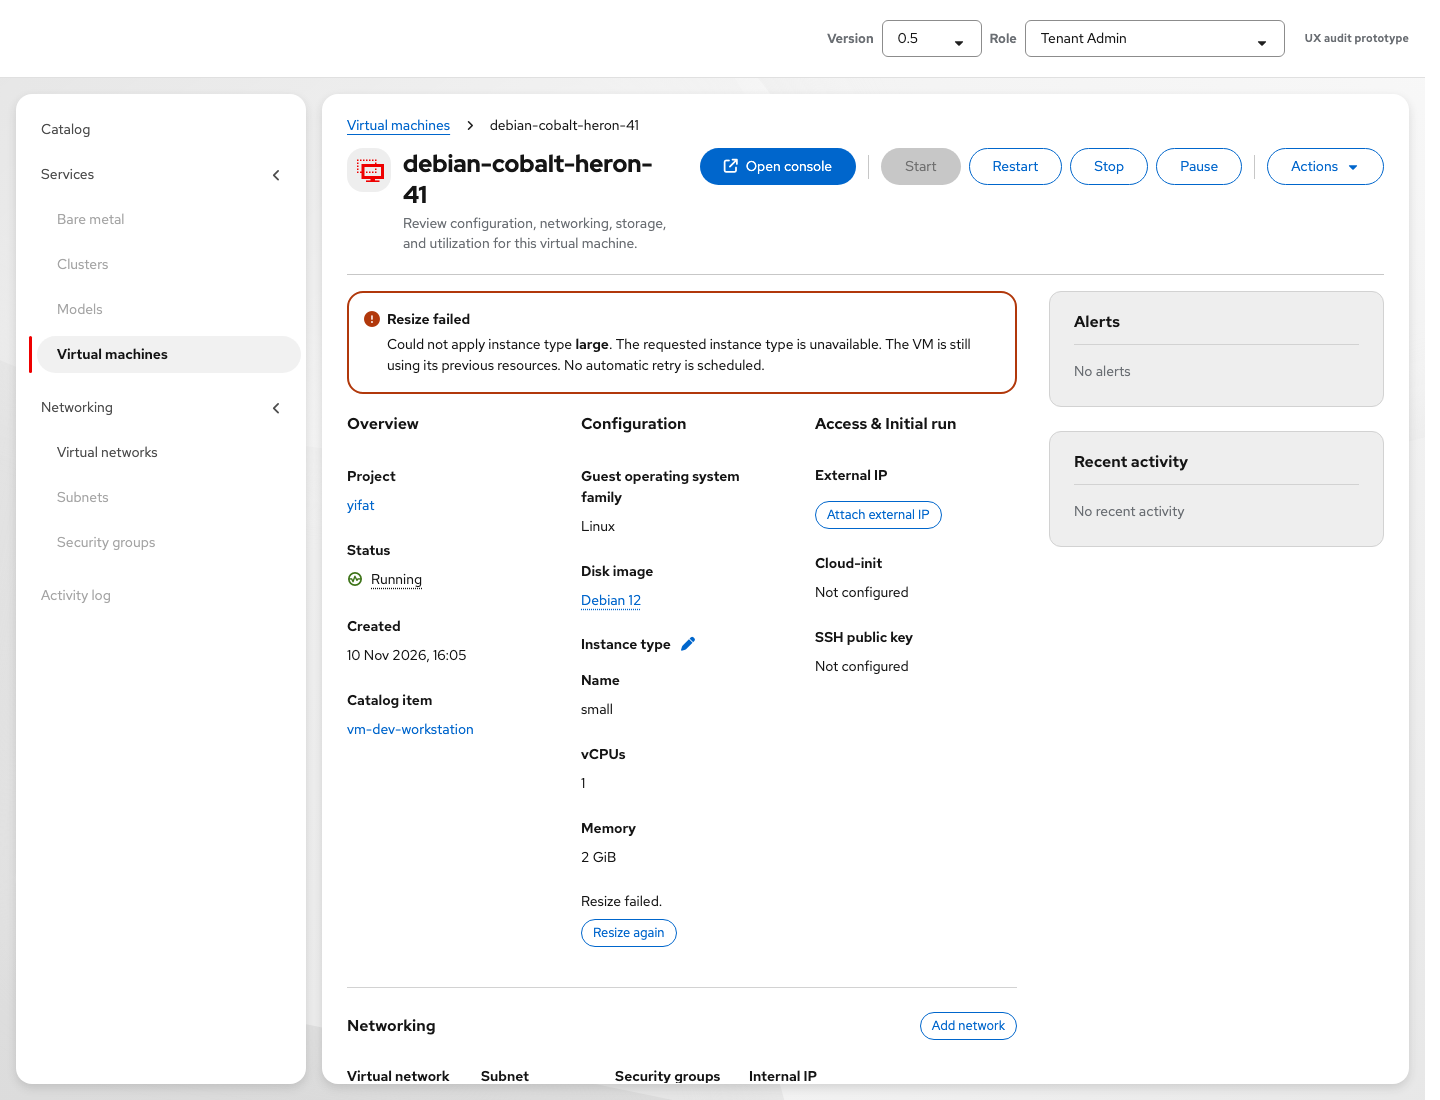
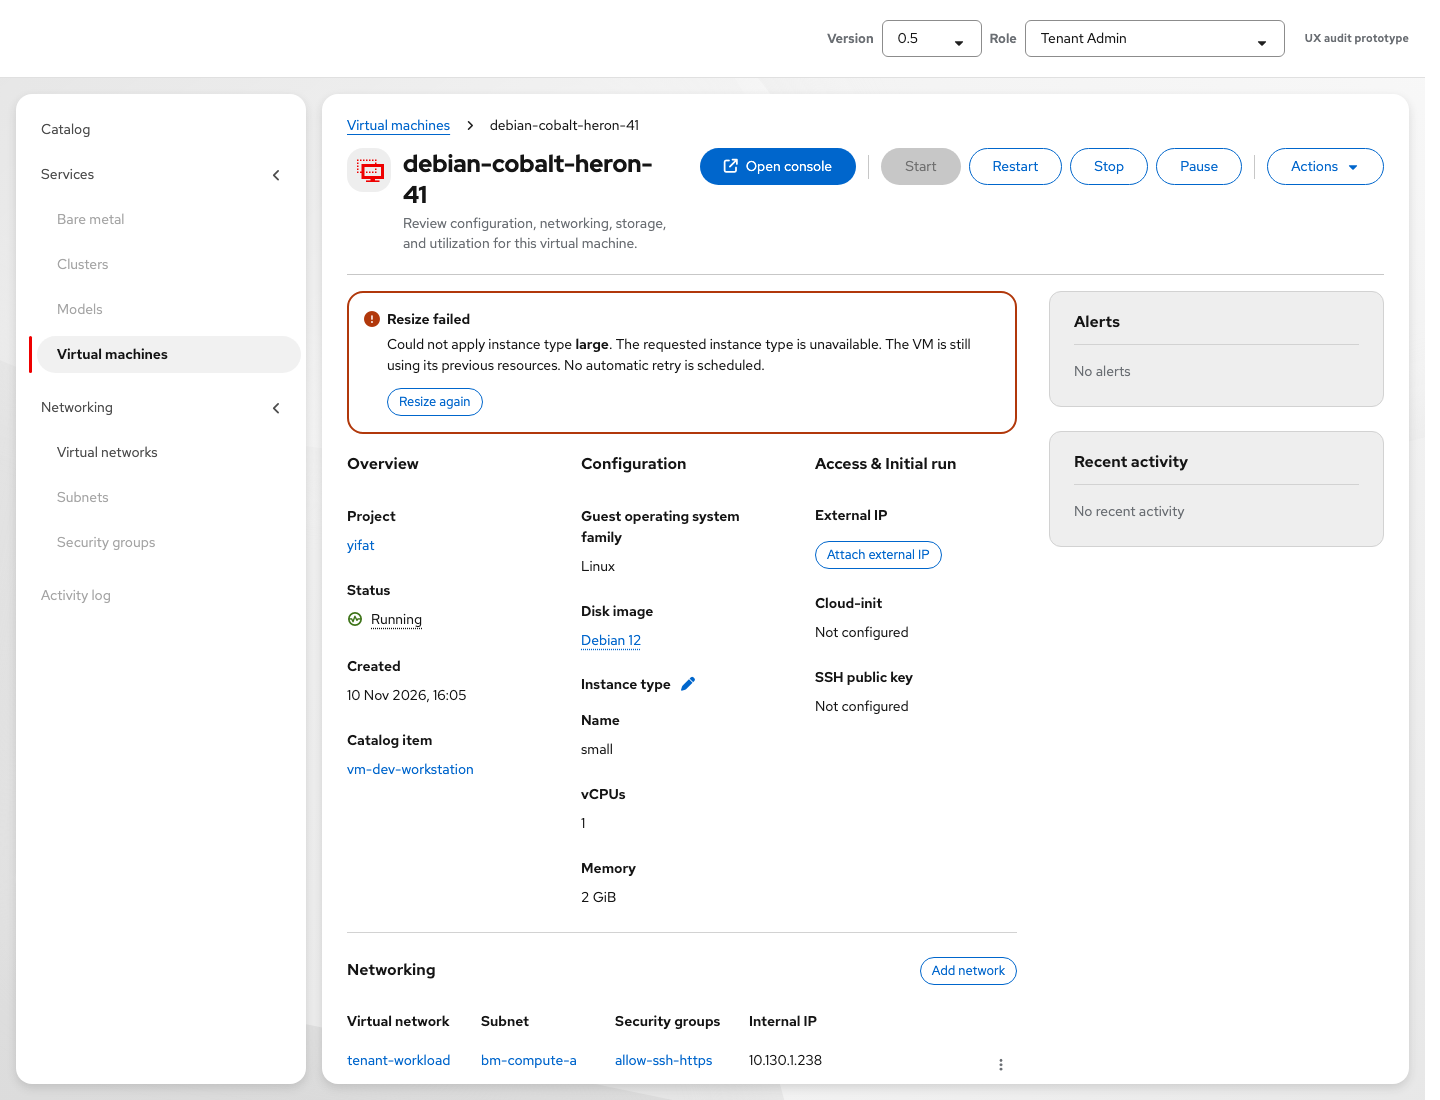
OSAC-7158: place resize progress in instance type popover
Assisted-by: Cursor <cursoragent@cursor.com>

diff --git a/apps/app-frontend/public/vmaas-ux-prototype.html b/apps/app-frontend/public/vmaas-ux-prototype.html
@@ -1327,11 +1327,14 @@
       color: var(--vmaas-text);
     }
     .vm-config-inline__status { display: block; }
-    .vm-config-inline__status i { color: var(--pf-t--global--icon--color--status--info--default, #0066cc); margin-right: 6px; }
+    .vm-instance-progress-trigger {
+      color: var(--pf-t--global--icon--color--status--info--default, #0066cc);
+    }
     .vm-config-inline__details { margin-top: 6px; }
     .vm-config-inline__details summary { cursor: pointer; color: var(--vmaas-blue); }
     .vm-config-inline__details ul { margin: 6px 0 0 20px; }
     .vm-config-inline__action { margin-top: 8px; }
+    .vm-config-alert__action { margin-top: 12px; }
     .vm-configuration-label {
       display: inline-flex;
       align-items: center;
@@ -2237,6 +2240,7 @@
     }
     #disk-image-popover,
     #it-pci-popover,
+    #instance-progress-popover,
     #storage-tier-popover {
       display: none;
       position: fixed;
@@ -2245,6 +2249,7 @@
     }
     #disk-image-popover.pf-m-open,
     #it-pci-popover.pf-m-open,
+    #instance-progress-popover.pf-m-open,
     #storage-tier-popover.pf-m-open { display: block; }
     #disk-image-popover .nic-detail-dl,
     #it-pci-popover .nic-detail-dl,
@@ -9218,7 +9223,7 @@
     }
 
     /** OSAC-7158: only failed configuration operations need a top alert. */
-    function vmConfigurationOperationAlertsHtml(vm) {
+    function vmConfigurationOperationAlertsHtml(vm, canResize) {
       const alerts = [];
       if (vm.resizeFailure) {
         const target = escAttr(resolveVmComputeId(vm) || 'the requested instance type');
@@ -9244,28 +9249,15 @@
       const description = alerts.length === 1
         ? alerts[0].description
         : `<ul class="pf-v6-c-list">${alerts.map(alert => `<li><strong>${alert.title}:</strong> ${alert.description}</li>`).join('')}</ul>`;
+      const resizeAction = vm.resizeFailure && canResize
+        ? '<div class="vm-config-alert__action"><button type="button" class="pf-v6-c-button pf-m-secondary pf-m-small" data-resize-again>Resize again</button></div>'
+        : '';
       return `
         <div class="pf-v6-c-alert pf-m-inline pf-m-danger vm-restart-required" role="alert">
           <div class="pf-v6-c-alert__icon"><i class="fa-solid fa-circle-exclamation" aria-hidden="true"></i></div>
           <h4 class="pf-v6-c-alert__title">${title}</h4>
-          <div class="pf-v6-c-alert__description">${description}</div>
+          <div class="pf-v6-c-alert__description">${description}${resizeAction}</div>
         </div>`;
-    }
-
-    function vmResizeInlineHtml(vm, canResize) {
-      const target = escAttr(resolveVmComputeId(vm) || 'the requested instance type');
-      if (vm.resizeFailure) {
-        return `<div class="vm-config-inline" role="status">
-          <div>Resize failed.</div>
-          ${canResize ? '<button type="button" class="pf-v6-c-button pf-m-secondary pf-m-small vm-config-inline__action" data-resize-again>Resize again</button>' : ''}
-        </div>`;
-      }
-      if (vm.resizeProgress) {
-        const retry = Number(vm.resizeProgress.retryAttempt) > 1
-          ? `<span class="vm-config-operation__retry">Retry attempt: ${Number(vm.resizeProgress.retryAttempt)}</span>` : '';
-        return `<div class="vm-config-inline" role="status"><div class="vm-config-inline__status"><i class="fa-solid fa-circle-info" aria-hidden="true"></i>Changing instance type to <strong>${target}</strong>.</div>${retry}</div>`;
-      }
-      return '';
     }
 
     function editComputeResizeAlertHtml(path, selectionChanged) {
@@ -14826,6 +14818,37 @@
       positionDetailPopover(pop, trigger, 'it-pci-popover-close');
     }
 
+    let instanceProgressPopoverTrigger = null;
+    function closeInstanceProgressPopover() {
+      const pop = document.getElementById('instance-progress-popover');
+      if (!pop) return;
+      pop.classList.remove('pf-m-open');
+      pop.hidden = true;
+      if (instanceProgressPopoverTrigger) {
+        instanceProgressPopoverTrigger.setAttribute('aria-expanded', 'false');
+        instanceProgressPopoverTrigger = null;
+      }
+    }
+
+    function openInstanceProgressPopover(trigger) {
+      const pop = document.getElementById('instance-progress-popover');
+      const body = document.getElementById('instance-progress-popover-body');
+      if (!pop || !body) return;
+      if (instanceProgressPopoverTrigger === trigger && pop.classList.contains('pf-m-open')) {
+        closeInstanceProgressPopover();
+        return;
+      }
+      closeDiskImagePopover();
+      closeItPciPopover();
+      closeStorageTierPopover();
+      const target = escAttr(trigger.dataset.target || 'the requested instance type');
+      const retry = Number(trigger.dataset.retry);
+      body.innerHTML = `<p>Changing instance type to <strong>${target}</strong>.</p>${retry > 1 ? `<p class="vm-config-operation__retry">Retry attempt: ${retry}</p>` : ''}`;
+      instanceProgressPopoverTrigger = trigger;
+      trigger.setAttribute('aria-expanded', 'true');
+      positionDetailPopover(pop, trigger, 'instance-progress-popover-close');
+    }
+
     let storageTierPopoverTrigger = null;
     function closeStorageTierPopover() {
       const pop = document.getElementById('storage-tier-popover');
@@ -14889,6 +14912,14 @@
           closeItPciPopover();
           return;
         }
+        if (e.target.closest('#instance-progress-popover-close')) {
+          e.preventDefault();
+          e.stopPropagation();
+          const trigger = instanceProgressPopoverTrigger;
+          closeInstanceProgressPopover();
+          trigger?.focus();
+          return;
+        }
         if (e.target.closest('#storage-tier-popover-close')) {
           e.preventDefault();
           e.stopPropagation();
@@ -14909,6 +14940,13 @@
           openItPciPopover(pciTrigger);
           return;
         }
+        const progressTrigger = e.target.closest('[data-instance-progress]');
+        if (progressTrigger) {
+          e.preventDefault();
+          e.stopPropagation();
+          openInstanceProgressPopover(progressTrigger);
+          return;
+        }
         const tierTrigger = e.target.closest('[data-storage-tier-detail]');
         if (tierTrigger) {
           e.preventDefault();
@@ -14919,26 +14957,34 @@
         if (
           e.target.closest('#disk-image-popover')
           || e.target.closest('#it-pci-popover')
+          || e.target.closest('#instance-progress-popover')
           || e.target.closest('#storage-tier-popover')
         ) return;
         closeDiskImagePopover();
         closeItPciPopover();
+        closeInstanceProgressPopover();
         closeStorageTierPopover();
       });
       document.addEventListener('keydown', e => {
         if (e.key !== 'Escape') return;
+        const trigger = instanceProgressPopoverTrigger;
+        const returnFocus = !!trigger && document.getElementById('instance-progress-popover')?.contains(document.activeElement);
         closeDiskImagePopover();
         closeItPciPopover();
+        closeInstanceProgressPopover();
         closeStorageTierPopover();
+        if (returnFocus) trigger.focus();
       });
       window.addEventListener('resize', () => {
         closeDiskImagePopover();
         closeItPciPopover();
+        closeInstanceProgressPopover();
         closeStorageTierPopover();
       });
       window.addEventListener('scroll', () => {
         closeDiskImagePopover();
         closeItPciPopover();
+        closeInstanceProgressPopover();
         closeStorageTierPopover();
       }, true);
     }
@@ -17158,6 +17204,12 @@
       const itSubtitleRow = `
         <div class="ethan-detail-col__subtitle-row">
           <h4 class="ethan-detail-col__subtitle">Instance type</h4>
+          ${v.resizeProgress ? `<button type="button" class="pf-v6-c-button pf-m-plain vm-instance-progress-trigger" data-instance-progress
+            data-target="${escAttr(resolveVmComputeId(v) || 'the requested instance type')}"
+            data-retry="${Number(v.resizeProgress.retryAttempt) || 0}"
+            aria-label="Instance type change in progress" aria-haspopup="dialog" aria-expanded="false" aria-controls="instance-progress-popover">
+            <i class="fa-solid fa-circle-info" aria-hidden="true"></i>
+          </button>` : ''}
           <button type="button" class="vm-edit-inline" data-edit-compute aria-label="Edit instance type"${editComputeTitleAttr}${editComputeDisabledAttr}>
             <i class="fa-solid fa-pen" aria-hidden="true"></i>
           </button>
@@ -17219,7 +17271,7 @@
                 </div>
       `;
 
-      const operationAlertsHtml = vmConfigurationOperationAlertsHtml(v);
+      const operationAlertsHtml = vmConfigurationOperationAlertsHtml(v, canResizeCompute);
       const provisioningFailureHtml = v.provisioningFailed ? `
         <div class="pf-v6-c-alert pf-m-inline pf-m-danger" role="alert">
           <div class="pf-v6-c-alert__icon"><i class="fa-solid fa-circle-exclamation" aria-hidden="true"></i></div>
@@ -17250,7 +17302,6 @@
                   ${itField('vCPUs', String(computeFields.vcpu).replace(/</g, '&lt;'))}
                   ${itField('Memory', String(computeFields.memory).replace(/</g, '&lt;'))}
                   ${gpuFieldsHtml}
-                  ${vmResizeInlineHtml(v, canResizeCompute)}
                 </section>
                 <section class="ethan-detail-col" aria-labelledby="vm-access-title">
                   <h3 class="ethan-detail-col__title" id="vm-access-title">Access &amp; Initial run</h3>
@@ -26301,6 +26352,16 @@
         </span>
       </button>
       <div class="pf-v6-c-popover__body" id="it-pci-popover-body"></div>
+    </div>
+  </div>
+
+  <div class="pf-v6-c-popover pf-m-left" id="instance-progress-popover" role="dialog" aria-label="Instance type change in progress" hidden>
+    <div class="pf-v6-c-popover__arrow"></div>
+    <div class="pf-v6-c-popover__content">
+      <button type="button" class="pf-v6-c-button pf-m-plain pf-v6-c-popover__close" id="instance-progress-popover-close" aria-label="Close instance type progress">
+        <span class="pf-v6-c-button__icon"><i class="fas fa-times" aria-hidden="true"></i></span>
+      </button>
+      <div class="pf-v6-c-popover__body" id="instance-progress-popover-body"></div>
     </div>
   </div>
 

diff --git a/docs/osac-4281-vm-resize-handoff.md b/docs/osac-4281-vm-resize-handoff.md
@@ -31,11 +31,11 @@ On the VM list, retain the normal power status (for example, Running). In 0.5, s
 
 ## Resize in progress
 
-When the API reports that a resize is applying without a restart, keep **Running** as the VM power state. In 0.5, show one subdued gray, text-only **Changes in progress** status on a second line below the power status in card and table views; its tooltip names the resize target and any other active configuration operation. VM Overview shows progress beside Instance type, including the requested type and any known retry attempt. Keep active values until the API confirms completion. The mockup uses `indigo-quokka-89` for this state.
+When the API reports that a resize is applying without a restart, keep **Running** as the VM power state. In 0.5, show one subdued gray, text-only **Changes in progress** status on a second line below the power status in card and table views; its tooltip names the resize target and any other active configuration operation. On VM Overview, an information icon beside the **Instance type** heading opens a keyboard-accessible popover with the requested type and any known retry attempt. Keep active values until the API confirms completion. The mockup uses `indigo-quokka-89` for this state.
 
-After a restart with a scheduled resize, remove **Restart required** and show **Changes in progress** in lists while the resize is applying, even if the power state has returned to **Running**. In version 0.5, details show the operation beside Instance type. The mockup uses `fedora-aqua-barnacle-58` for this state; restarting `azure-baboon-27` also demonstrates the transition.
+After a restart with a scheduled resize, remove **Restart required** and show **Changes in progress** in lists while the resize is applying, even if the power state has returned to **Running**. In version 0.5, details use the Instance type progress popover. The mockup uses `fedora-aqua-barnacle-58` for this state; restarting `azure-baboon-27` also demonstrates the transition.
 
-Do not show a persistent top progress notification, timing details, or a Recent activity entry for this brief operation. Keep the instance type name, CPU, memory, and GPU together; show progress after those specs. Remove the configuration status only when the API confirms completion, then show the new instance type, CPU, and memory as active values and a brief success toast. Keep configuration progress separate from the VM power state, as required by OSAC-6578. These states require operation phase and active versus requested values from the API; the mockup timer only demonstrates completion and must not be used as production logic. If resize fails, keep current resources visible, show **Changes need attention** in the 0.5 list, put the reason in a top danger alert, and show only a short **Resize failed** cue with **Resize again** beside Instance type. If known, say **No automatic retry is scheduled** in the alert; the user can still submit a new resize. `ubuntu-copper-ibis-31` demonstrates a failed resize while external-IP attachment continues.
+Do not show a persistent top progress notification, timing details, or a Recent activity entry for this brief operation. Keep the instance type name, CPU, memory, and GPU together; put progress details in the heading popover. Remove the configuration status only when the API confirms completion, then show the new instance type, CPU, and memory as active values and a brief success toast. Keep configuration progress separate from the VM power state, as required by OSAC-6578. These states require operation phase and active versus requested values from the API; the mockup timer only demonstrates completion and must not be used as production logic. If resize fails, keep current resources visible, show **Changes need attention** in the 0.5 list, and put the reason and **Resize again** button in the top danger alert. Do not repeat the failure beside Instance type. If known, say **No automatic retry is scheduled** in the alert; the user can still submit a new resize. `ubuntu-copper-ibis-31` demonstrates a failed resize while external-IP attachment continues.
 
 The API must expose or allow derivation of both active and requested configuration values, the restart-required condition, the resize operation phase, and a failure reason. Backend acceptance of the update depends on OSAC-5328.
 
@@ -80,7 +80,9 @@ The API must expose or allow derivation of both active and requested configurati
 
 ![Resize in progress without restart](screenshots/vm-resize/resize-in-progress-no-restart.jpg)
 
-![Version 0.5 resize progress beside Instance type without restart](screenshots/latest-ux/vm-config-inline-hot-resize-0.5.png)
+![Version 0.5 Instance type progress icon without restart](screenshots/latest-ux/vm-config-inline-hot-resize-0.5.png)
+
+![Version 0.5 Instance type progress popover without restart](screenshots/latest-ux/vm-config-inline-hot-resize-0.5-popover.png)
 
 **Progress tooltip.** The requested instance type and phase are visible on focus or hover.
 
@@ -90,7 +92,9 @@ The API must expose or allow derivation of both active and requested configurati
 
 ![Resize in progress after restart](screenshots/vm-resize/resize-in-progress-after-restart.jpg)
 
-![Version 0.5 resize progress beside Instance type after restart](screenshots/latest-ux/vm-config-inline-progress-0.5.png)
+![Version 0.5 Instance type progress icon after restart](screenshots/latest-ux/vm-config-inline-progress-0.5.png)
+
+![Version 0.5 Instance type progress popover after restart](screenshots/latest-ux/vm-config-inline-progress-0.5-popover.png)
 
 **VM table.** This 0.4 screenshot shows the older resize-specific labels. In 0.5, the Status column uses one text-only configuration status below the power status per VM.
 

diff --git a/docs/vm-overview-ux-handoff.md b/docs/vm-overview-ux-handoff.md
@@ -8,13 +8,15 @@ VM Overview shows the active instance type, CPU, and memory. Editing the instanc
 
 ## Version 0.5 — configuration operations (OSAC-7158)
 
-The Overview **Status** row shows the VM power state only. Keep active instance type, CPU, memory, and attached external IP as the main values. Keep the instance type name, CPU, memory, and GPU together; show applying resize status immediately after those specs. Attachment progress appears beside External IP. Name the requested type or address in context. A known later attempt appears on its own subdued line. The Attach external IP button remains visible but disabled while attachment runs. Use a top-of-page danger alert for failed operations; when two operations fail, list both in one alert. Put the failure reason in that alert and a short **Resize failed** cue with **Resize again** beside the instance type. Say **No automatic retry is scheduled** when that is known, so the manual action remains clear. After an attachment failure, keep the attempted address out of the attached-IP value and offer **Attach external IP** to start another selection.
+The Overview **Status** row shows the VM power state only. Keep active instance type, CPU, memory, and attached external IP as the main values. Keep the instance type name, CPU, memory, and GPU together. While resize applies, an information icon beside the **Instance type** heading opens a keyboard-accessible popover with the target and any known retry attempt. Attachment progress remains beside External IP. The Attach external IP button remains visible but disabled while attachment runs. Use a top-of-page danger alert for failed operations; when two operations fail, list both in one alert. Put the failure reason and **Resize again** action in that alert, without repeating the failure below Instance type. Say **No automatic retry is scheduled** when that is known, so the manual action remains clear. After an attachment failure, keep the attempted address out of the attached-IP value and offer **Attach external IP** to start another selection.
 
-![Version 0.5 progress beside instance type and External IP](screenshots/latest-ux/vm-config-inline-progress-0.5.png)
+![Version 0.5 instance type progress icon and External IP progress](screenshots/latest-ux/vm-config-inline-progress-0.5.png)
+
+![Version 0.5 instance type progress popover](screenshots/latest-ux/vm-config-inline-progress-0.5-popover.png)
 
 ![Version 0.5 failure alert and Resize again action](screenshots/latest-ux/vm-config-failure-0.5.png)
 
-The [ubuntu-copper-ibis-31 example](https://osac-project.github.io/osac-ux/vmaas-ux-prototype.html?v=58cbd2c&role=admin&vm=ubuntu-copper-ibis-31) combines a failed resize with external-IP attachment still running. The top alert covers only the resize failure; IP progress and its disabled Attach button stay beside External IP. In lists and cards, **Changes need attention** takes precedence, while the tooltip names both operations.
+The [ubuntu-copper-ibis-31 example](https://osac-project.github.io/osac-ux/vmaas-ux-prototype.html?v=58cbd2c&role=admin&vm=ubuntu-copper-ibis-31) combines a failed resize with external-IP attachment still running. The top alert covers the resize failure and offers **Resize again**; IP progress and its disabled Attach button stay beside External IP. In lists and cards, **Changes need attention** takes precedence, while the tooltip names both operations.
 
 ![Version 0.5 failed resize and active external-IP attachment](screenshots/latest-ux/vm-config-mixed-0.5.png)
 
